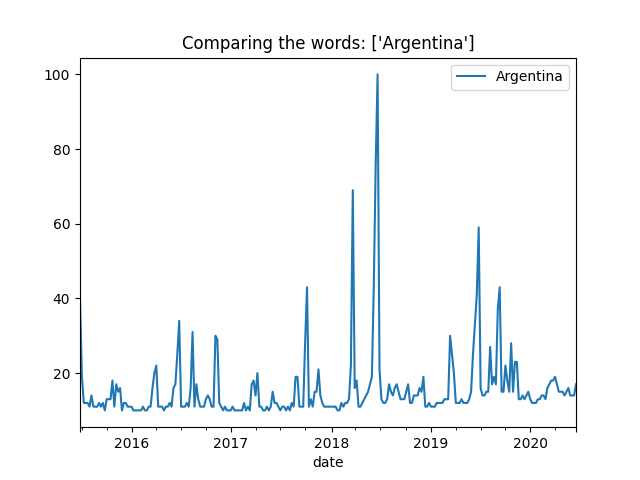
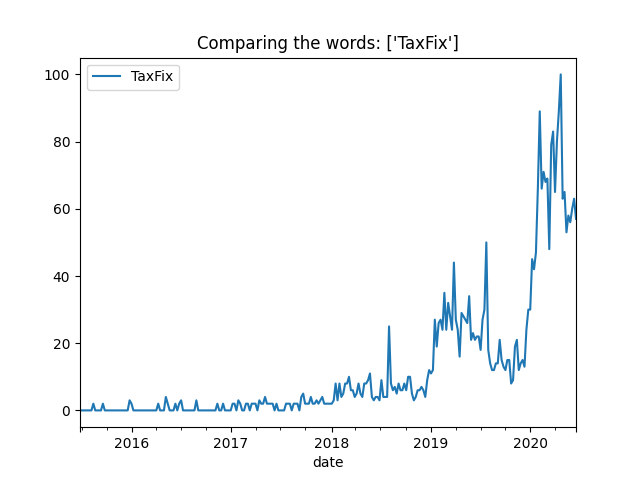
New Code to Plot comparison Words with the PyTrend API from Google like this Article states: https://medium.com/@yanweiliu/getting-the-google-trends-data-with-python-67b335e7d1cf Added the Request List of Words to compare on the Final part of the Code and added comments

diff --git a/pytrends_2.py b/pytrends_2.py
@@ -27,7 +27,7 @@ tb = pytrend.build_payload(
     kw_list,
     cat=0,
     timeframe='today 5-y', # This can be changed to have a new timeline
-    geo='ES', # This needs to change if you want not to use Spain
+    geo='', # This needs to change if you want not to use Spain (ES)
     gprop='')
 rq = pytrend.related_queries()
 #rq = rq.drop(labels=['isPartial'],axis='columns')
@@ -41,12 +41,15 @@ for word in kw_list:
     print(rising)
 
 print()
-print("Interest Over Time of the befored Selected Queries figure Created")
-iot = pytrend.interest_over_time()
-iot = iot.drop(labels=['isPartial'],axis='columns')
-img = iot.plot(title = 'Comparing the words: {}'.format(kw_list))
-fig = img.get_figure()
-fig.savefig('figureP.png')
+
+graph = input("Do you want to plot the Interest Over Time? (Yes to Graph, enter to skip): ")
+if graph == 'Yes':
+    print("Interest Over Time of the befored Selected Queries figure Created")
+    iot = pytrend.interest_over_time()
+    iot = iot.drop(labels=['isPartial'],axis='columns')
+    img = iot.plot(title = 'Comparing the words: {}'.format(kw_list))
+    fig = img.get_figure()
+    fig.savefig('figureP.png')
 
 print()
 print("Comparative Graph creation and CSV File for Compared Keywords")
